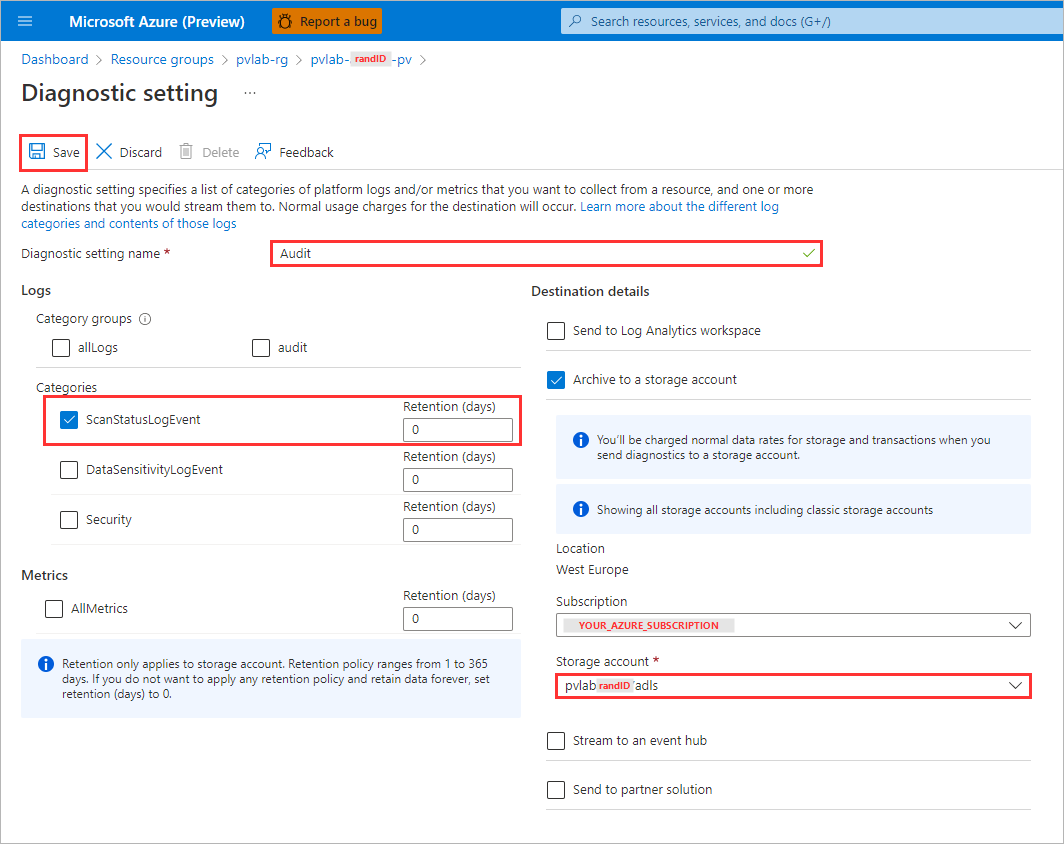
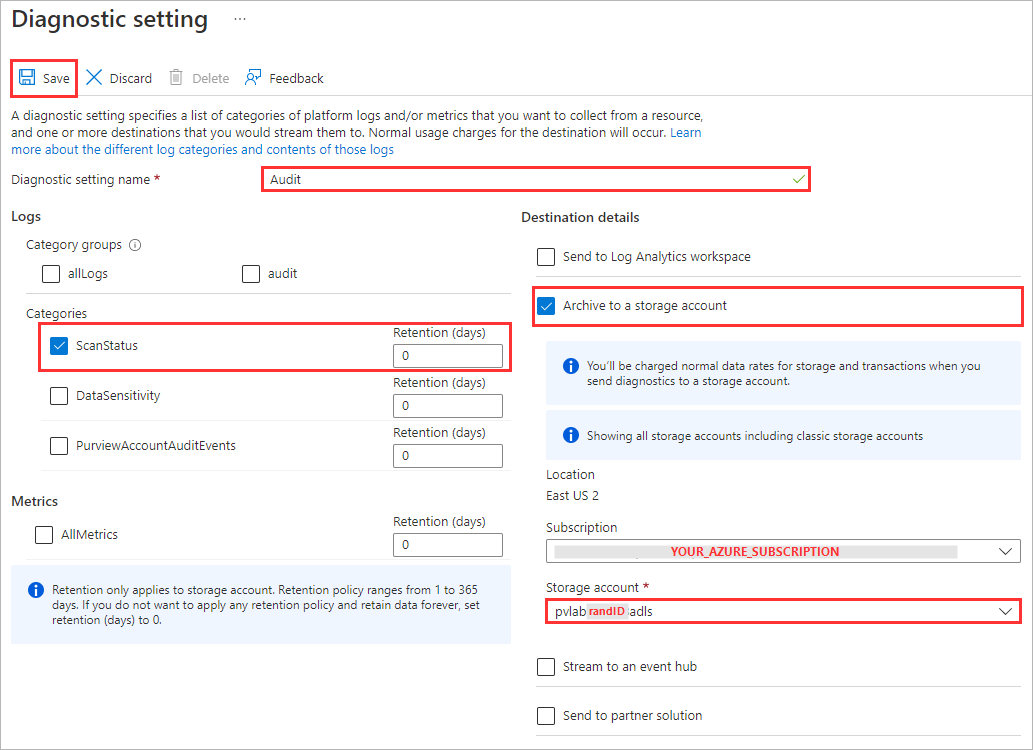
scan log

Changed region(s): [[0.0, 0.0, 1.0, 0.9813], [0.031, 0.6747, 0.4956, 0.828], [0.0, 0.644, 0.1239, 0.736]]

diff --git a/modules/module08.md b/modules/module08.md
@@ -100,11 +100,11 @@ Metrics can be accessed from the Azure Portal for a Microsoft Purview account in
 
     ![Add Diagnostic Setting](../images/module08/08.14-diagnostic-add.png)
 
-2. Provide the diagnostic setting a name (e.g. `Audit`), select **ScanStatusLogEvent**, select **Archive to a storage account**, select an existing storage account (e.g. `pvlab{randomId}adls`) and click **Save**.
+2. Provide the diagnostic setting a name (e.g. `Audit`), select **ScanStatus**, select **Archive to a storage account**, select an existing storage account (e.g. `pvlab{randomId}adls`) and click **Save**.
 
     > :bulb: **Did you know?**
     >
-    > **ScanStatusLogEvent** tracks the scan life cycle. A scan operation follows progress through a sequence of states, from Queued, Running and finally a terminal state of Succeeded | Failed | Canceled. An event is logged for each state transition.
+    > **ScanStatus** tracks the scan life cycle. A scan operation follows progress through a sequence of states, from Queued, Running and finally a terminal state of Succeeded | Failed | Canceled. An event is logged for each state transition.
 
     ![Save Diagnostic Setting](../images/module08/08.15-diagnostic-save.png)
 
